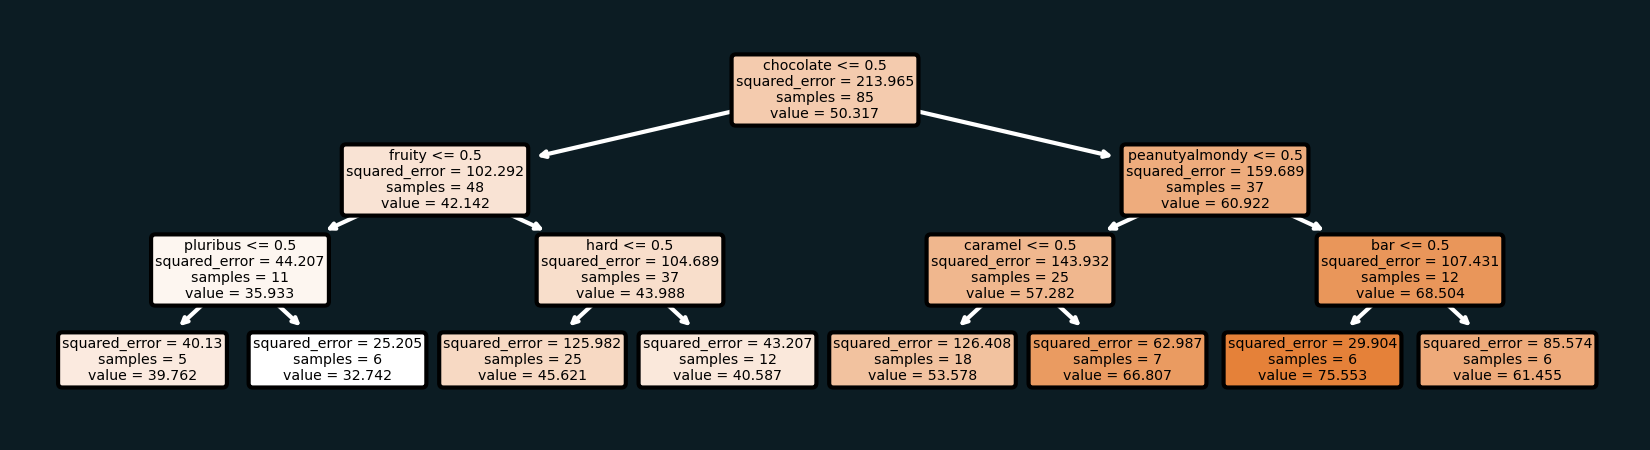
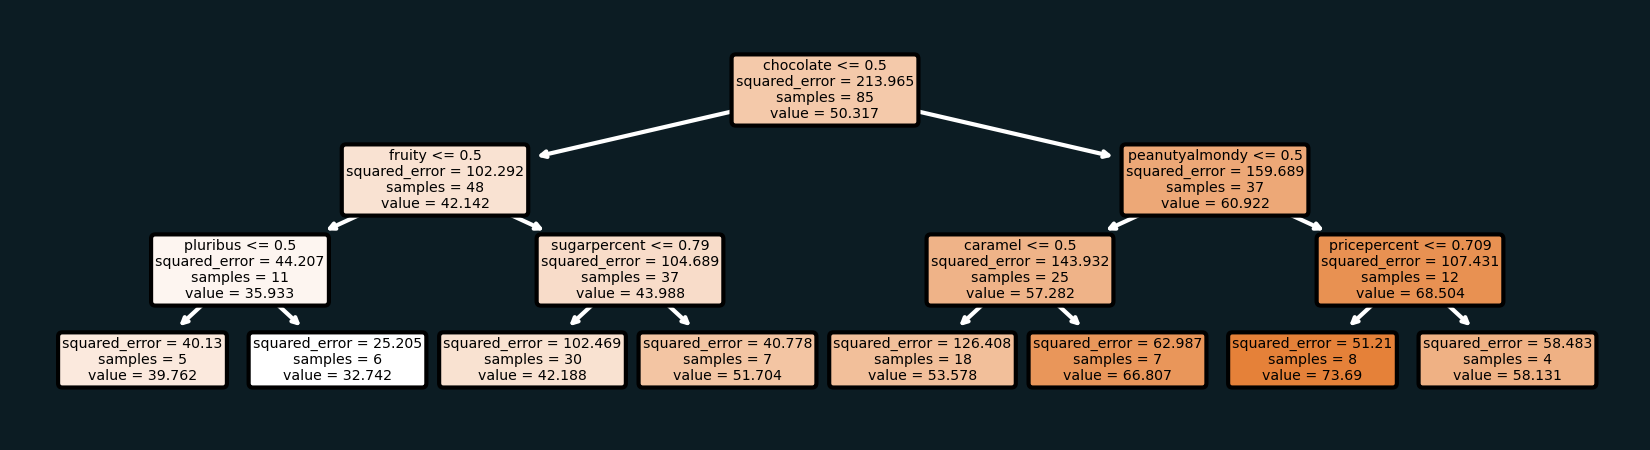
Adding RepeatedKFold test

diff --git a/most_popular_sweets.py b/most_popular_sweets.py
@@ -3,6 +3,7 @@ import numpy as np
 import seaborn as sns
 import matplotlib.pyplot as plt
 from sklearn.tree import DecisionTreeRegressor, plot_tree
+from sklearn.model_selection import cross_val_score, RepeatedKFold
 from sklearn.linear_model import LinearRegression
 from sklearn.metrics import (
     mean_squared_error,
@@ -287,12 +288,14 @@ def lin_reg():
         tmp_pred = y_pred[tmp_x_data.index]
         tmp_mse = mean_squared_error(tmp_y_data, tmp_pred)
         print(f"samples with {var}: n_samps = {len(tmp_y_data)} | R2 = {tmp_r2_score} | MSE = {tmp_mse}")
+    cv = cross_val_score(linreg, x_data, y_data, scoring="neg_mean_squared_error", cv=RepeatedKFold(n_splits=3,n_repeats=100))
+    print(f"3-foldx100 cross validation RMSE: {cv.mean():.2f} +- {cv.std():.2f}")
 
 
 def decision_tree():
     candy_df = pd.read_csv("candy-data.csv")
     model = DecisionTreeRegressor(max_depth=3)
-    x_data = candy_df.drop(["winpercent", "competitorname", "sugarpercent", "pricepercent"], axis=1)
+    x_data = candy_df.drop(["winpercent", "competitorname"], axis=1)
     y_data = candy_df["winpercent"]
     model.fit(x_data, y_data)
     y_pred = model.predict(x_data)
@@ -314,6 +317,8 @@ def decision_tree():
     fig = plt.gcf()
     fig.set_size_inches(5.5, 1.5)
     plt.savefig("tree_plot.png", dpi=300)
+    cv = cross_val_score(model, x_data, y_data, scoring="neg_mean_squared_error", cv=RepeatedKFold(n_splits=3,n_repeats=100))
+    print(f"3-foldx100 cross validation RMSE: {cv.mean():.2f} +- {cv.std():.2f}")
 
 
 if __name__ == "__main__":
